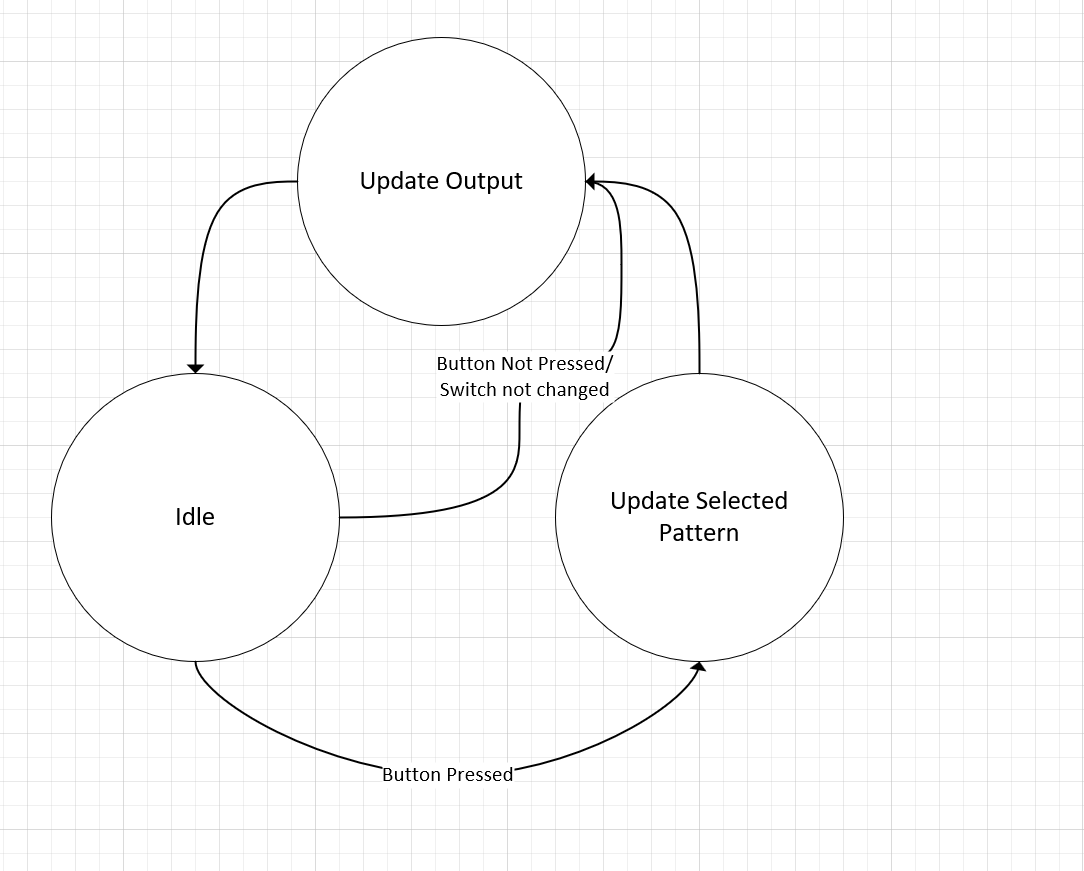
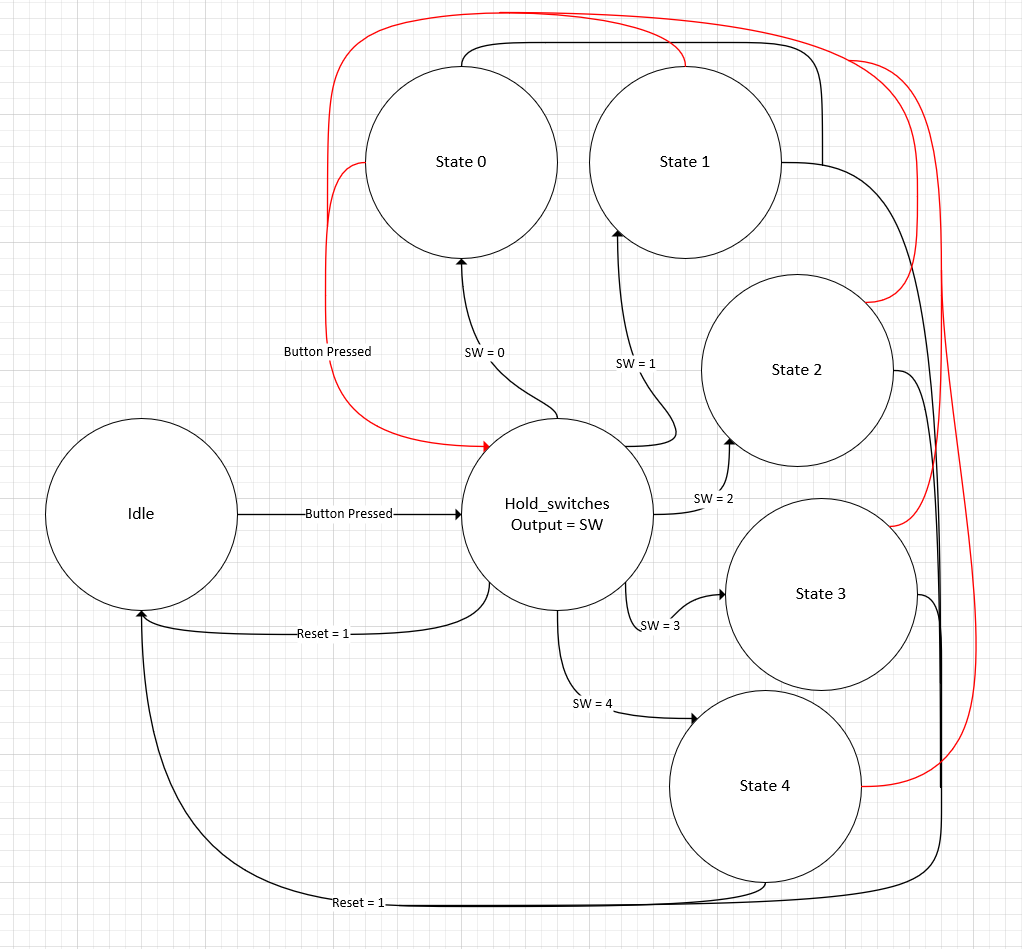
Finished Lab Report .md file

diff --git a/docs/Lab-4.md b/docs/Lab-4.md
@@ -5,8 +5,25 @@ Create a System on the DE10-nano to produce Variious LED Patterns based on dip s
 
 ## Deliverables
 
+
+
+
+
+# Lab Report
+
+## Project Overview
+The Goal of this lab was to create a VHDL project that allowed the user to choose between 5 different LED blinking patterns. The user uses the switches and button to interact with the FPGA and set the outputs. The differnt blinking patterns each have their own unique cycle time which is a scaler value of the base rate which is passed in as a fixed point value representing the period of the base rate. 
+
+## System Architecture 
+
 ### System Block Diagram
 ![Lab-4 System Block Diagram](./assets/Lab_4_System_Block_diagram.png)
-
 ### State Diagram
 ![Lab-4 State Diagram](./assets/Lab_4_State_Diagram.png)
+
+ For System Layout see [System Description](./assets/led_patterns.html)
+
+ The state diagram allows for transitions from idle to holding the input of the switches and displaying that input on the LEDs for a second when the button is pressed. Then it transitions to the input state from the switches. Each state has its own unique timer that when asserted adjusts the output to the LED's.
+
+ ## Implementation Details
+ The unique pattern created alternated toggling every other bit on the leds at a rate of 3 times the base rate of the clock. It appears that the light is shifting left and right reapeatedly. 
